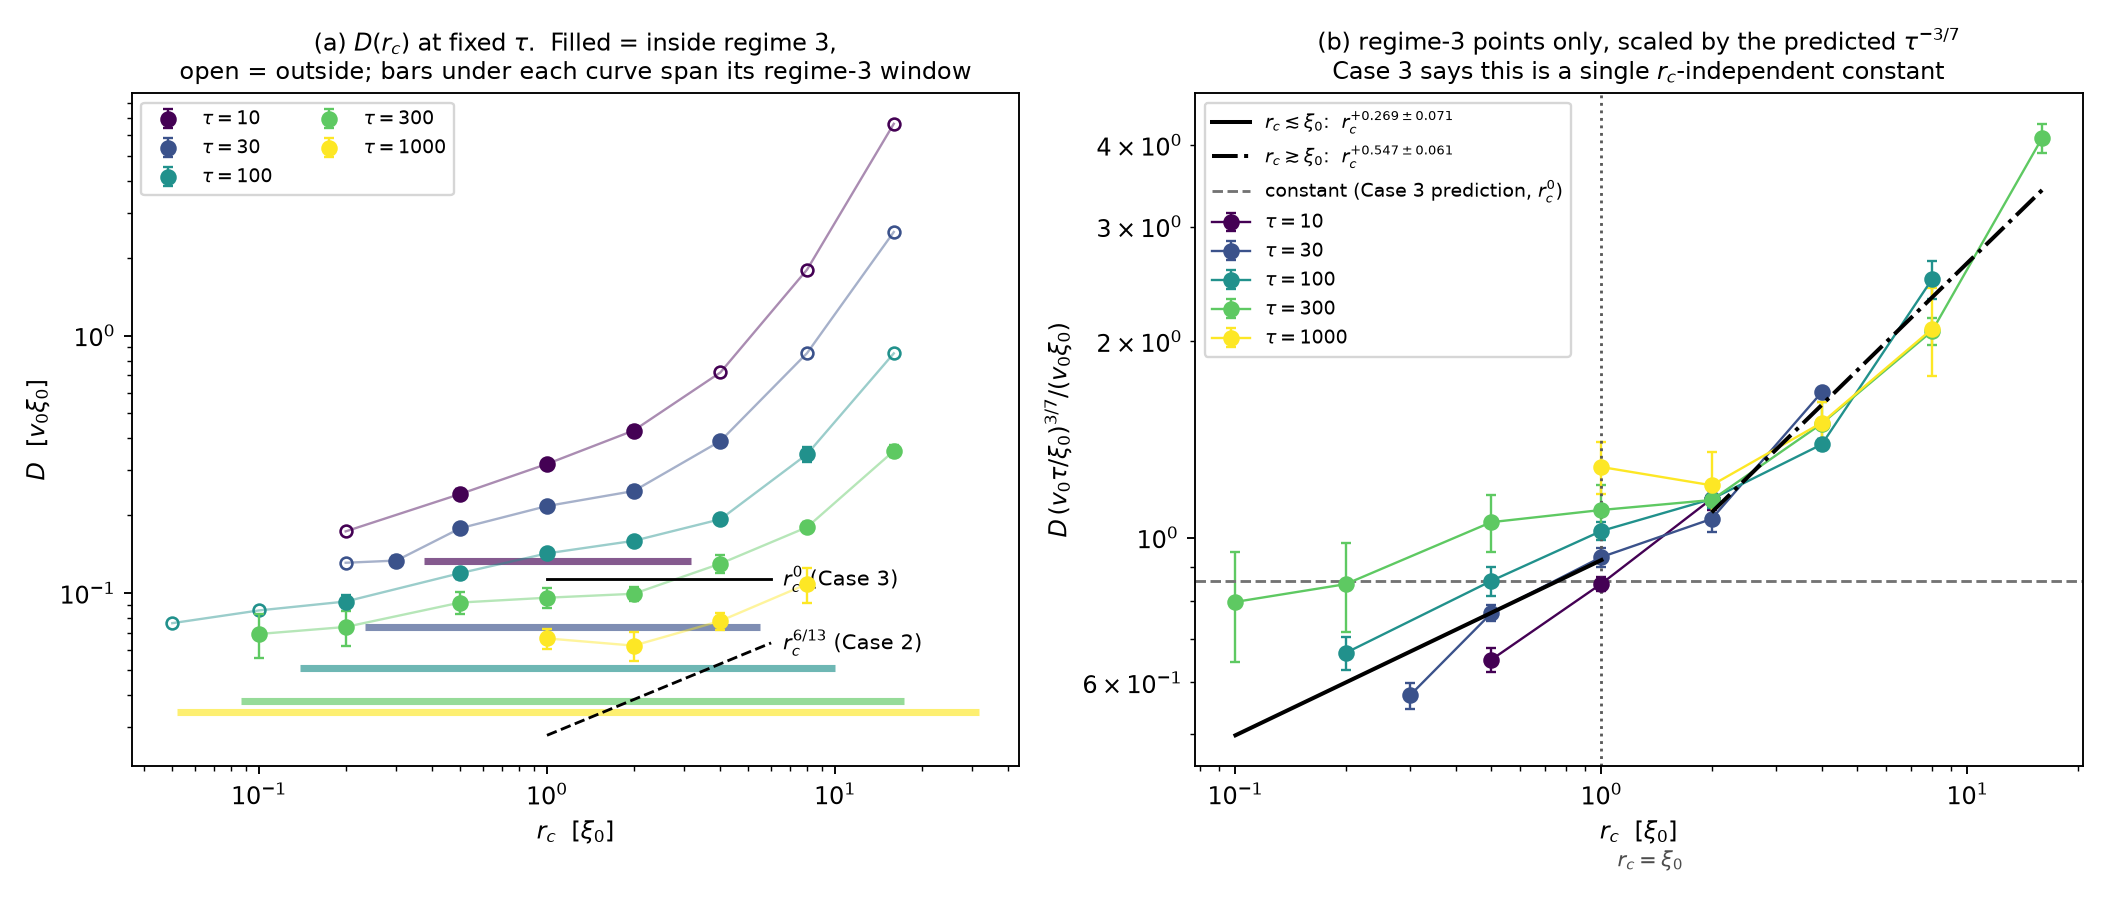
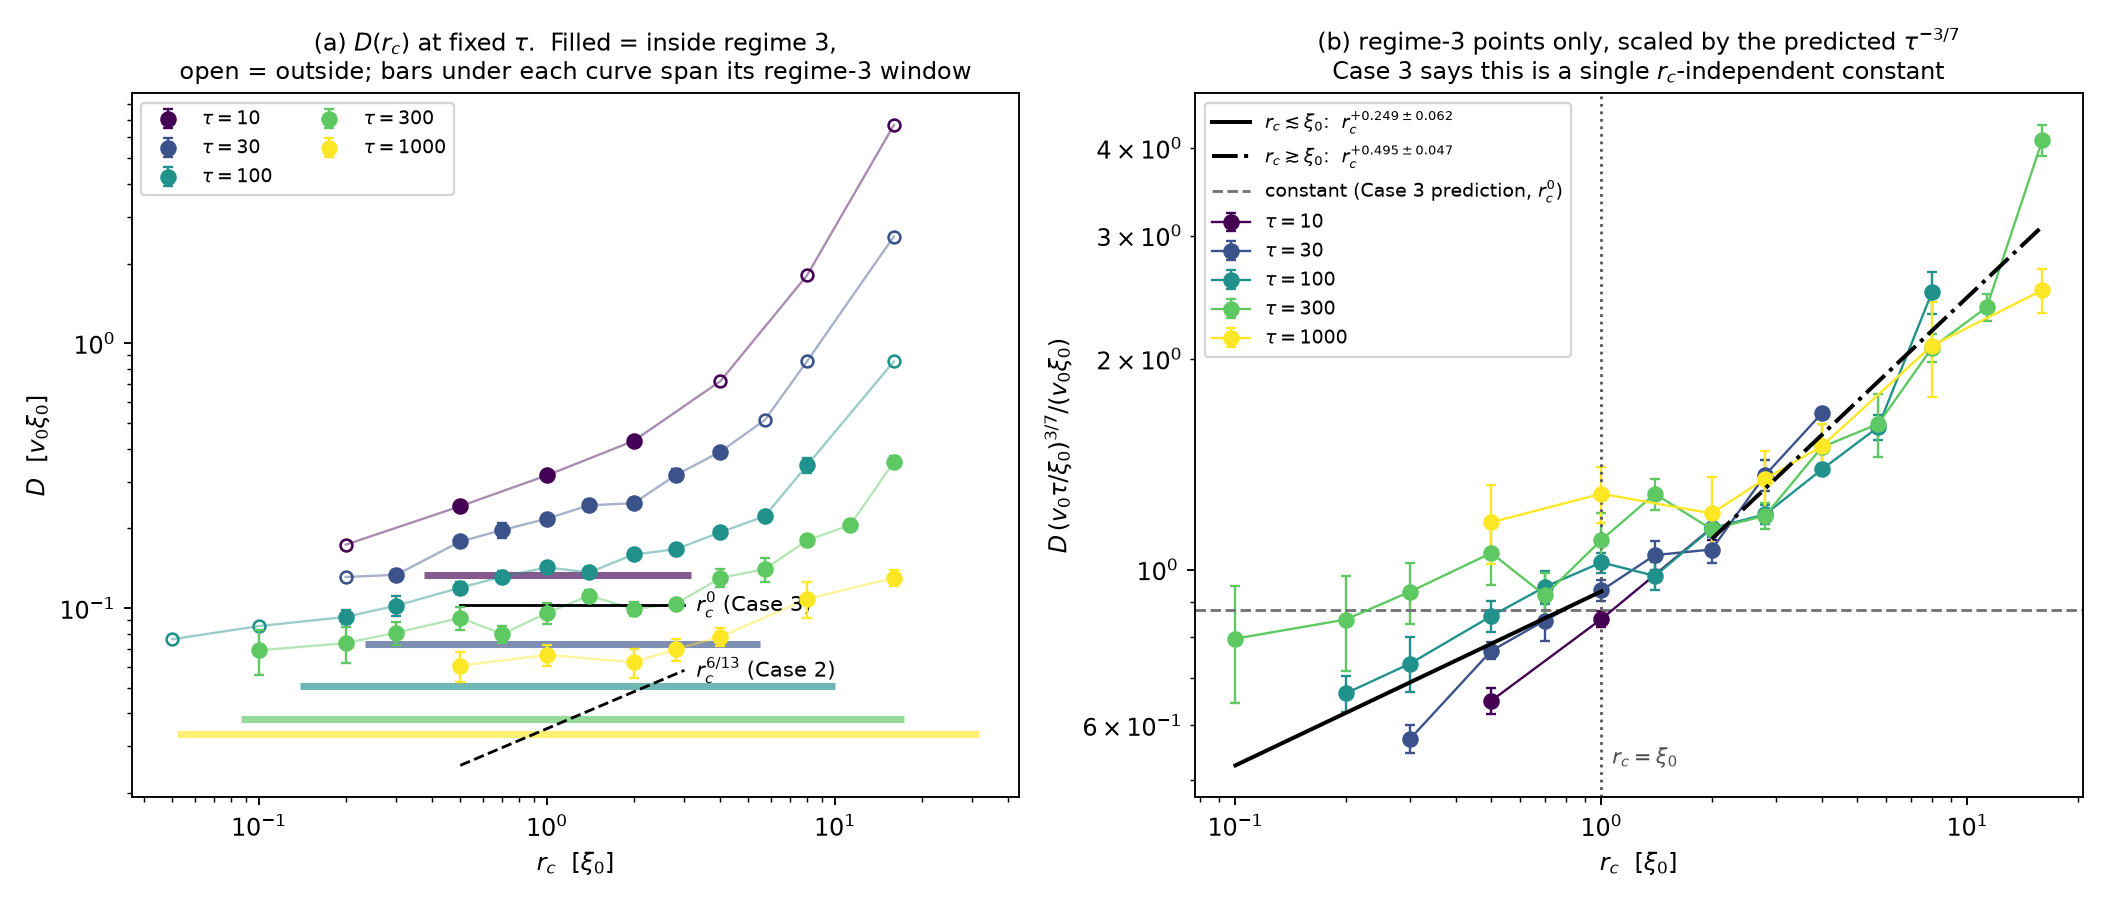
D(r_c) in regime 3: flat below xi_0, r_c^1/2 above it

diff --git a/scripts/plot_D_vs_rc_case3.py b/scripts/plot_D_vs_rc_case3.py
@@ -144,8 +144,8 @@ def main():
         bx.plot(xx, amp * xx ** b, style, lw=1.7, zorder=6,
                 label=f"${tag}$:  $r_c^{{{b:+.3f}\\pm{eb:.3f}}}$")
     bx.axvline(args.split, color="0.35", lw=1.2, ls=":")
-    bx.text(args.split * 1.06, bx.get_ylim()[0], r" $r_c=\xi_0$", fontsize=9,
-            color="0.3", va="bottom")
+    bx.text(args.split * 1.07, 0.04, r"$r_c=\xi_0$", fontsize=9, color="0.3",
+            va="bottom", ha="left", transform=bx.get_xaxis_transform())
     b, eb, amp = wpowerfit(allx, ally, alle)
     bx.axhline(np.exp(np.mean(np.log(ally[lowm]))), color="0.45", ls="--", lw=1.2,
                label=r"constant (Case 3 prediction, $r_c^0$)")

diff --git a/README.md b/README.md
@@ -339,6 +339,49 @@ the accessible `tau` is not large enough to sit on the asymptote.
 
 ![phase diagram](figures/phase_diagram.png)
 
+### `D` as a function of `r_c` inside regime 3
+
+`scripts/plot_D_vs_rc_case3.py` cuts the map the other way: `D(r_c)` at fixed
+`tau`, keeping only the points inside that `tau`'s regime-3 window
+`tau^(-3/7) < r_c < sqrt(tau)`. The window opens at the triple point and widens
+as `tau^(13/14)`, so large `tau` gives the long lever arm — at `tau = 1000` it
+spans `0.05 ... 32 xi_0`. 43 points survive, from `tau = 10` to `1000`.
+
+    python scripts/plot_D_vs_rc_case3.py --data data/grid*.npz
+
+Dividing out the predicted `tau^(-3/7)` collapses all five `tau` curves onto one
+another, so the `tau` scaling is doing its job. But the collapsed curve is not
+the flat line Case 3 predicts. It **breaks at `r_c ~ xi_0`**, which is neither
+of the two predicted boundaries:
+
+| branch | n | `d ln D/d ln r_c` | `<D tau^(3/7)>` |
+|---|---|---|---|
+| `r_c <= xi_0` | 19 | `+0.249 +- 0.062` | 0.875 |
+| `r_c >= 2 xi_0` | 21 | `+0.495 +- 0.047` | 1.594 |
+
+Below `xi_0` the exponent is still drifting to zero with `tau` — `+0.377 +-
+0.063` at `tau = 30`, `+0.269 +- 0.038` at `tau = 100`, `+0.112 +- 0.069` at
+`tau = 300` — i.e. consistent with the predicted `r_c^0` by `tau = 300`. Above
+`xi_0` it is not converging on anything near zero: it sits at `r_c^(1/2)`, ten
+standard deviations from flat, and the same split shows up as the margin cut in
+the phase-diagram fit (`+0.372` over the whole regime, `+0.169 +- 0.060` once
+only deep-interior cells are kept, since the deep interior is mostly `r_c` of
+order `xi_0`).
+
+The break is where the un-averaged model is expected to fail. Every run here
+uses the bare landscape — `run_grid.py` builds `PeriodicGaussianField` without
+`ring_average`, so the same `V` is used at `r_c = 0.05` and at `r_c = 16`. A
+drift-and-kick walk on a bare landscape has nothing that makes a kick longer
+than the correlation length irrelevant: once `r_c >> xi_0` every kick lands on a
+fully uncorrelated contour, so transport keeps growing with `r_c`. Orbit
+averaging is exactly the missing ingredient — it renormalises the landscape's
+correlation length towards `r_c` and shrinks the amplitude as
+`Gamma_eff = sqrt(exp(-r_c^2) I_0(r_c^2))`. So Case 3's `r_c`-independence
+should be read as a statement about the `r_c <~ xi_0` part of its window, and
+the `r_c >~ xi_0` branch measures the cost of ignoring the averaging.
+
+![D vs r_c in regime 3](figures/D_vs_rc_case3.png)
+
 ## Modelling choices worth knowing about
 
 * **The hop.** As specified, a collision moves the guiding centre by exactly
